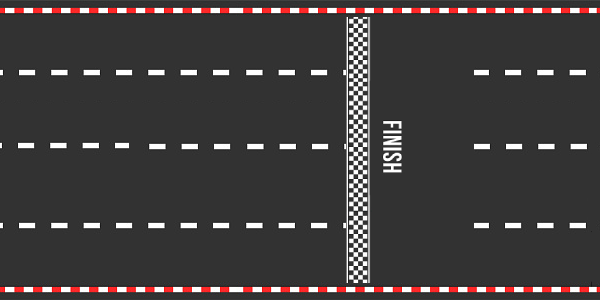
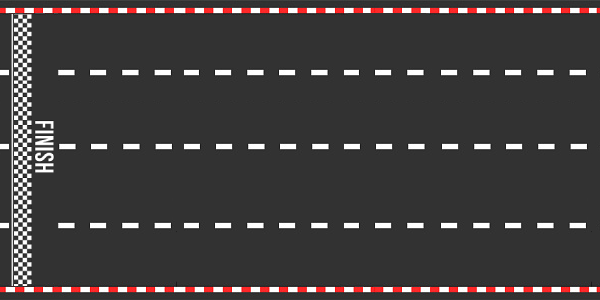
Update duck racing game odds

diff --git a/client/src/views/DuckRacingGame.vue b/client/src/views/DuckRacingGame.vue
@@ -1,28 +1,31 @@
 <template>
   <div class="container">
-    <div class="menu-wrapper" v-if="isShowNewOdds">
-      <div class="new-odds">
-        <div class="header-new-odds">Tỉ lệ cược</div>
-        <div class="item" v-for="(item, index) in oddsTable.oddsTable" :key="index" :class="{ [item.class]: true }"
-          @click="item.type === 'button' && placeBet(item)">
-          {{ item.reward }}
-          <span class="bets-money" v-if="item.type === 'button' && totalBetsMoney(item.betsMoney) > 0">{{
-            totalBetsMoney(item.betsMoney) }}</span>
+    <Transition name="slide-fade">
+      <div class="menu-wrapper" v-if="isShowNewOdds">
+        <div class="new-odds">
+          <div class="header-new-odds">Tỉ lệ cược</div>
+          <div class="item" v-for="(item, index) in oddsTable.oddsTable" :key="index" :class="{ [item.class]: true }"
+            @click="item.type === 'button' && placeBet(item)">
+            {{ item.reward }}
+            <span class="bets-money" v-if="item.type === 'button' && totalBetsMoney(item.betsMoney) > 0">{{
+              totalBetsMoney(item.betsMoney) }}</span>
+          </div>
+        </div>
+        <div class="history">
+          <span class="result-title">Kết quả</span>
+          <ul>
+            <li>
+              <span>1</span>-<span>2</span><span>5</span>
+            </li>
+            <li>
+              <span>1</span>-<span>2</span><span>5</span>
+            </li>
+          </ul>
+          <ButtonControl label="Bắt đầu đua" @buttonClick="startGame()" />
         </div>
       </div>
-      <div class="history">
-        <span class="result-title">Kết quả</span>
-        <ul>
-          <li>
-            <span>1</span>-<span>2</span><span>5</span>
-          </li>
-          <li>
-            <span>1</span>-<span>2</span><span>5</span>
-          </li>
-        </ul>
-        <ButtonControl label="Bắt đầu đua" @buttonClick="startGame()" />
-      </div>
-    </div>
+    </Transition>
+
 
     <div class="count-down" v-if="!isShowNewOdds && countDown >= 0">{{ countDown }}</div>
     <canvas id="duck_1">
@@ -58,7 +61,10 @@ export default {
     const oddsTable = reactive({ oddsTable: duckRacing.getOddsTable() });
     const isShowNewOdds = ref(true);
     const countDown = ref(5);
-
+    duckRacing.stopGame.subscribe(value => {
+      isShowNewOdds.value = value;
+      oddsTable.oddsTable = duckRacing.getOddsTable();
+    });
     function placeBet(boxClickData) {
       oddsTable.oddsTable.forEach(item => {
         if (item.x === boxClickData.x && item.y === boxClickData.y) {
@@ -79,6 +85,7 @@ export default {
 
     async function startGame() {
       isShowNewOdds.value = false;
+      countDown.value = 5;
       while (countDown.value >= 0) {
         await delay(1000);
         countDown.value--;
@@ -94,11 +101,43 @@ export default {
   },
   mounted() {
     this.duckRacing.initialGame();
+  },
+  unmounted() {
+    if (this.duckRacing.stopGame) {
+      this.duckRacing.stopGame.unsubscribe();
+    }
   }
 }
 </script>
 
 <style scoped>
+.slide-fade-enter-active {
+  transition: all 0.8s ease-out;
+}
+
+.slide-fade-leave-active {
+  transition: all 0.8s cubic-bezier(1, 0.5, 0.8, 1);
+}
+
+.slide-fade-enter-from,
+.slide-fade-leave-to {
+  transform: translateX(100%);
+  opacity: 0;
+}
+
+.container {
+  max-height: 376px;
+  max-width: 668px;
+  min-height: 280px;
+  margin: auto;
+  position: absolute;
+  overflow: hidden;
+  top: 0;
+  bottom: 0;
+  left: 0;
+  right: 0;
+}
+
 .container .count-down {
   position: absolute;
   z-index: 350;
@@ -174,7 +213,6 @@ export default {
   z-index: 300;
   background: gray;
   opacity: 0.9;
-  padding: 16px;
   padding: 16px;
   width: 100%;
   box-sizing: border-box;
@@ -263,8 +301,6 @@ export default {
 #duck_5,
 #duck_6 {
   position: absolute;
-  width: 100%;
-  height: 100%;
 }
 
 .background {

diff --git a/client/src/utils/duck-racing-game/duck-racing.js b/client/src/utils/duck-racing-game/duck-racing.js
@@ -2,53 +2,69 @@ import { OddsTable, Reward } from "./odds-table.const";
 import { DuckBlue } from '@/utils/duck-racing-game/duck-blue.js';
 import { CityBackground } from '@/utils/duck-racing-game/city-background';
 import { RoadBackground } from '@/utils/duck-racing-game/road-background';
+import { Subject } from 'rxjs';
+import { delay } from "../utils";
 export class DuckRacing {
   oddsTable;
   objectGame = [];
+  stopGame = new Subject(true);
   constructor() {
-    this.oddsTable=[];
+    this.oddsTable = [];
   }
 
   initialGame() {
     this.objectGame = [
       new DuckBlue(0.01, -120, 'duck_1', require('@/utils/duck-racing-game/images/duck_1.png')),
-    new DuckBlue(0.03, -90, 'duck_2', require('@/utils/duck-racing-game/images/duck_2.png')),
-    new DuckBlue(0.05, -60, 'duck_3', require('@/utils/duck-racing-game/images/duck_blue_3.png')),
-    new DuckBlue(0.06, -30, 'duck_4', require('@/utils/duck-racing-game/images/duck_blue_4.png')),
-    new DuckBlue(0.08, 0, 'duck_5', require('@/utils/duck-racing-game/images/duck_5.png')),
-    new DuckBlue(0.1, 20, 'duck_6', require('@/utils/duck-racing-game/images/duck_6.png')),
-    new CityBackground(1.5, 'city-background', require('@/utils/duck-racing-game/images/background-city.png')),
-    new RoadBackground(1.5, 'road-background')
-  ];
-    this.objectGame.forEach(item=>item.draw());
+      new DuckBlue(0.03, -90, 'duck_2', require('@/utils/duck-racing-game/images/duck_2.png')),
+      new DuckBlue(0.05, -60, 'duck_3', require('@/utils/duck-racing-game/images/duck_blue_3.png')),
+      new DuckBlue(0.06, -30, 'duck_4', require('@/utils/duck-racing-game/images/duck_blue_4.png')),
+      new DuckBlue(0.08, 0, 'duck_5', require('@/utils/duck-racing-game/images/duck_5.png')),
+      new DuckBlue(0.01, 20, 'duck_6', require('@/utils/duck-racing-game/images/duck_6.png')),
+      new CityBackground(1.1, 'city-background', require('@/utils/duck-racing-game/images/background-city.png')),
+      new RoadBackground(1.1, 'road-background')
+    ];
+    this.objectGame.forEach(item => item.draw());
   }
 
   startGame() {
-    this.objectGame.forEach(item=>item.start = true);
+    this.stopGame.next(false);
+    this.objectGame.forEach(item => item.start = true);
+    const interval = setInterval(async () => {
+      const maxFrameXDuck = Math.max(...this.objectGame.slice(0, 6).map(item=>item.frameX));
+      if (maxFrameXDuck >= 340) {
+        clearInterval(interval);
+        this.objectGame.forEach(item => item.stopAnimation());
+        await delay(3000);
+        this.stopGame.next(true);
+        this.initialGame();
+      }
+    }, 1500)
   }
+
   getOddsTable() {
     const awardMixin = this.mixItemInList();
     let index = 0;
-    this.oddsTable = OddsTable.map(item=>{
-      if(item.type === 'button') {
+    this.oddsTable = OddsTable.map(item => {
+      if (item.type === 'button') {
         item.reward = awardMixin[index];
+        item.betsMoney = [];
         index++;
       }
-      return {...item}
+      return { ...item}
     });
     return this.oddsTable;
   }
 
   mixItemInList() {
     const listItemDistinct = [];
-    while(listItemDistinct.length < Reward.length) {
+    while (listItemDistinct.length < Reward.length) {
       const number = Math.floor(Math.random() * Reward.length);
-      if(!listItemDistinct.includes(number)) {
+      if (!listItemDistinct.includes(number)) {
         listItemDistinct.push(number)
       }
     }
     let objectReward = {};
-    listItemDistinct.forEach((item,index)=>{
+    listItemDistinct.forEach((item, index) => {
       objectReward[item] = Reward[index]
     })
     return objectReward;

diff --git a/client/src/utils/duck-racing-game/road-background.js b/client/src/utils/duck-racing-game/road-background.js
@@ -7,14 +7,15 @@ export class RoadBackground {
   x = 0;
   speed = 0;
   start = false;
-  typeRoad = 1;
+  cancelAnimation;
+  TIMES = 15;
   constructor(speed, idCanvas) {
     this.canvas = document.getElementById(idCanvas);
     this.context = this.canvas.getContext('2d');
     this.x = 0;
-    if(speed >= 0.02 && speed <= 1.5) {
+    if (speed >= 0.02 && speed <= 1.5) {
       this.speed = speed;
-    }else {
+    } else {
       this.speed = 0.02;
     }
     this.playerImageStart = new Image();
@@ -23,27 +24,30 @@ export class RoadBackground {
     this.playerImageFinish.src = require('@/utils/duck-racing-game/images/road_finish.png');
     this.playerImage = new Image();
     this.playerImage.src = require('@/utils/duck-racing-game/images/road_full.png');
-    
+
   }
 
+  stopAnimation() {
+    cancelAnimationFrame(this.cancelAnimation);
+  }
   draw() {
-    if(this.x <= -this.canvas.width ) {
-      this.x = 0;
-      this.typeRoad = 2;
+    this.context.clearRect(0, 0, this.canvas.width, this.canvas.height)
+    for(let i = 0; i<= this.TIMES; i++) {
+      if(i === 0) {
+        this.context.drawImage(this.playerImageStart, 0, 0, this.playerImageStart.width, this.playerImageStart.height, i*this.canvas.width + this.x, 0, this.canvas.width + 2, this.canvas.height);
+      } else if(i === this.TIMES) {
+        this.context.drawImage(this.playerImageFinish, 0, 0, this.playerImageFinish.width, this.playerImageFinish.height, i*this.canvas.width + this.x, 0, this.canvas.width + 2, this.canvas.height);
+      }else {
+        this.context.drawImage(this.playerImage, 0, 0, this.playerImage.width, this.playerImage.height, i*this.canvas.width + this.x, 0, this.canvas.width + 2, this.canvas.height);
+      }
     }
-    this.context.clearRect(0,0,this.canvas.width ,this.canvas.height);
-    if(this.typeRoad === 1) {
-      this.context.drawImage(this.playerImageStart, 0, 0, this.playerImageStart.width, this.playerImageStart.height, this.x, 0, this.canvas.width , this.canvas.height);
-      this.context.drawImage(this.playerImage, 0, 0, this.playerImage.width , this.playerImage.height, this.canvas.width + this.x - 2, 0, this.canvas.width , this.canvas.height);
-    }else if(this.typeRoad === 2) {
-      this.context.drawImage(this.playerImage, 0, 0, this.playerImage.width, this.playerImageStart.height, this.x, 0, this.canvas.width , this.canvas.height);
-      this.context.drawImage(this.playerImage, 0, 0, this.playerImage.width , this.playerImage.height, this.canvas.width + this.x - 2, 0, this.canvas.width , this.canvas.height);
-    }else {
-      this.context.drawImage(this.playerImageFinish, 0, 0, this.playerImageFinish.width , this.playerImageFinish.height, this.canvas.width + this.x - 10, 0, this.canvas.width , this.canvas.height);
-    }
-    if(this.start) {
+
+    if (this.start) {
       this.x -= this.speed;
     }
-    requestAnimationFrame(this.draw.bind(this));
+    this.cancelAnimation = requestAnimationFrame(this.draw.bind(this));
+    if (this.x <= - this.TIMES*this.canvas.width) {
+      cancelAnimationFrame(this.cancelAnimation);
+    }
   }
 }

diff --git a/client/src/utils/duck-racing-game/city-background.js b/client/src/utils/duck-racing-game/city-background.js
@@ -6,14 +6,13 @@ export class CityBackground {
   speed = 0;
   cancelAnimation;
   start = false;
-
   constructor(speed, idCanvas, urlCity) {
     this.canvas = document.getElementById(idCanvas);
     this.context = this.canvas.getContext('2d');
     this.x = 0;
-    if(speed >= 0.02 && speed <= 1.5) {
+    if (speed >= 0.02 && speed <= 1.5) {
       this.speed = speed;
-    }else {
+    } else {
       this.speed = 0.02;
     }
     this.playerImage = new Image();
@@ -24,13 +23,13 @@ export class CityBackground {
     cancelAnimationFrame(this.cancelAnimation);
   }
   draw() {
-    if(this.x <= -this.canvas.width ) this.x = 0;
-    this.context.clearRect(0,0,this.canvas.width ,this.canvas.height);
-    this.context.drawImage(this.playerImage, 0, 0,this.playerImage.width,this.playerImage.width/2,this.x,0, this.canvas.width,this.canvas.width/2 + 20);
-    this.context.drawImage(this.playerImage, 0, 0,this.playerImage.width,this.playerImage.width/2,this.canvas.width + this.x - 1,0, this.canvas.width,this.canvas.width/2 + 20);
-    if(this.start) {
-      this.x-= this.speed;
+    if (this.x <= -this.canvas.width) this.x = 0;
+    this.context.clearRect(0, 0, this.canvas.width, this.canvas.height);
+    this.context.drawImage(this.playerImage, 0, 0, this.playerImage.width, this.playerImage.width / 2, this.x, 0, this.canvas.width, this.canvas.width / 2 + 20);
+    this.context.drawImage(this.playerImage, 0, 0, this.playerImage.width, this.playerImage.width / 2, this.canvas.width + this.x - 1, 0, this.canvas.width, this.canvas.width / 2 + 20);
+    if (this.start) {
+      this.x -= this.speed;
     }
-    this.cancelAnimation= requestAnimationFrame(this.draw.bind(this));
+    this.cancelAnimation = requestAnimationFrame(this.draw.bind(this));
   }
 }

diff --git a/client/src/utils/duck-racing-game/duck-blue.js b/client/src/utils/duck-racing-game/duck-blue.js
@@ -11,6 +11,8 @@ export class DuckBlue {
   y=0;
   speed = 0;
   start = false;
+  cancelAnimation;
+
   constructor(speed, frameY, idCanvas, urlDuck) {
     this.canvas = document.getElementById(idCanvas);
     this.context = this.canvas.getContext('2d');
@@ -19,23 +21,24 @@ export class DuckBlue {
     this.playerImage = new Image();
     this.playerImage.src = urlDuck;
     this.frameY = 300 - this.heightDuck - frameY;
-    if(speed >= 0.02 && speed < 1.5) {
+    if(speed >= 0.02 && speed <= 0.1) {
       this.speed = speed;
     }else {
       this.speed = 0.02;
     }
   }
-
+  stopAnimation() {
+    cancelAnimationFrame(this.cancelAnimation);
+  }
   draw(){
     this.context.clearRect(this.frameX - 65,this.frameY, this.widthDuck,this.heightDuck);
     if(this.start) {
       this.frameX += this.speed;
       this.x = Math.floor(this.staggerGame/(1/this.speed))%4;
       this.y = Math.floor(this.staggerGame/(1/this.speed))%2;
-      if(this.frameX > 500) this.frameX = -50;
       this.staggerGame++;
     }
     this.context.drawImage(this.playerImage, this.x * this.widthDuck, this.y * this.heightDuck, this.widthDuck,this.heightDuck,this.frameX - 65,this.frameY,this.widthDuck,this.heightDuck);
-    requestAnimationFrame(this.draw.bind(this));
+    this.cancelAnimation = requestAnimationFrame(this.draw.bind(this));
   }
 }
